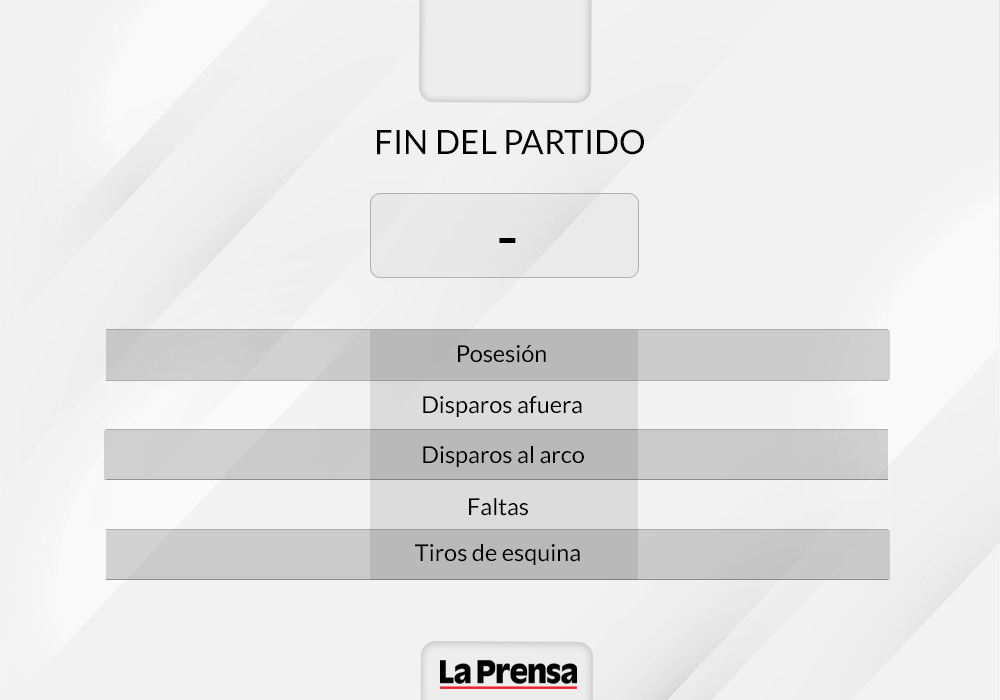
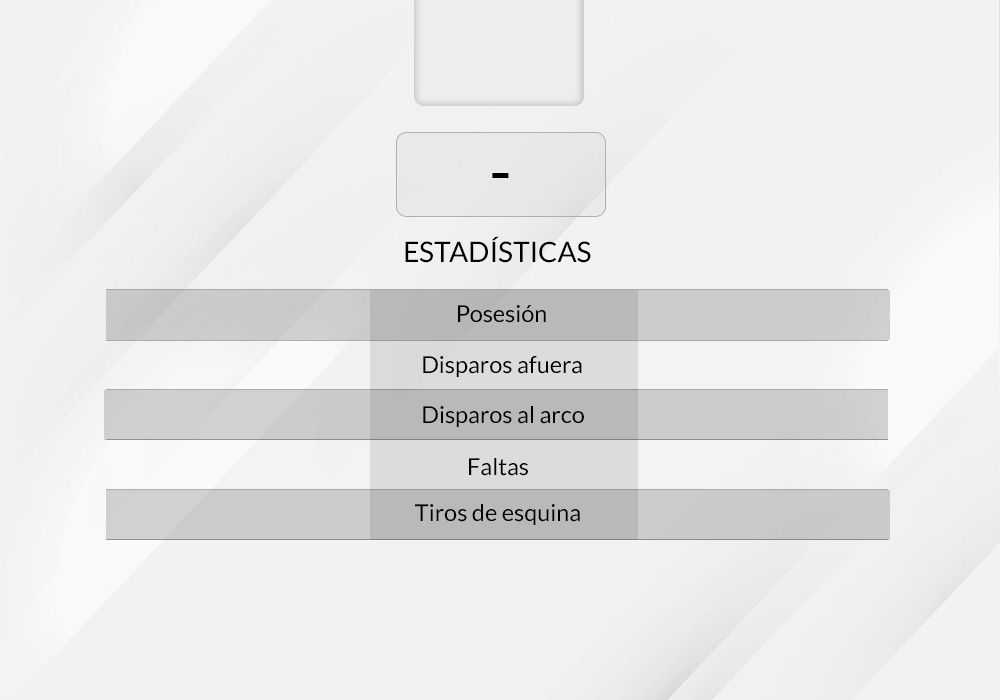
fix image details

diff --git a/textImage.py b/textImage.py
@@ -22,7 +22,7 @@ import numpy as np
 # ESCRIBE Y HACE WRAP DE LOS NOMBRES DE LOS EQUPOS DADO UN TEXTO Y COORDENADAS
 def writeTeam (text,sizex,sizey):
 
-    text_img = np.ones((40, 200))
+
     font = cv2.FONT_HERSHEY_SIMPLEX
 
     wrapped_text = textwrap.wrap(text, width=15)
@@ -70,7 +70,7 @@ def calcularCentro(cadena, pos):
 ################# EQUIPO IZQUIERDA ################# 
 logoIzq = 'https://cdn.api.everysport.com/logos/fotboll/olimpia_190518/1641998342298.png'
 
-nameTeamIzq = ("equipo de nombre largo").upper()
+nameTeamIzq = ("equipo pc. de nombre largo").upper()
 
 gols_one = "4"
 
@@ -88,7 +88,7 @@ equipoIzq = [
 ################# EQUIPO DERECHA ################# 
 logoDer = 'https://cdn.api.everysport.com/logos/fotboll/atletico_club_goianense_158404/1654764046179.png'
 
-nameTeamDer = ("Atletico Club Goianense").upper()
+nameTeamDer = ("nombre corto").upper()
 
 gols_two = "2"
 
@@ -154,13 +154,13 @@ img1_copy = img1.copy()
 # MASCARA PARA TRASPARENCIA DE LOGOS
 
 # LOGO CENTRAL
-img1_copy.paste(logo3, (468,10), logo3)
+img1_copy.paste(logo3, (460,10), logo3)
 
 # LOGO IZQUIERDO ( PSG PRUEBA )
-img1_copy.paste(logo1, (145,50), logo1)
+img1_copy.paste(logo1, (145,20), logo1)
 
 #LOGO DERECHO ( BACELONA )
-img1_copy.paste(logo2, (727,50), logo2)
+img1_copy.paste(logo2, (727,20), logo2)
 
 
 # GUARDAR IMAGEN TEMPORAL CON LOGOS
@@ -172,19 +172,19 @@ img = cv2.imread('assets/img_logos.jpg')
 
 
 # ESCRIBE GOLES EQUIPO IZQUERDA
-cv2.putText(img, gols_one, (calcularCentro(gols_one, 420),258), cv2.FONT_HERSHEY_SIMPLEX, 2, (0,0,0), 2, cv2.LINE_AA, False)
+cv2.putText(img, gols_one, (calcularCentro(gols_one, 435),195), cv2.FONT_HERSHEY_SIMPLEX, 2, (0,0,0), 2, cv2.LINE_AA, False)
 
 # ESCRIBE GOLES EQUIPO DERECHA
-cv2.putText(img, gols_two,(calcularCentro(gols_two, 560),258), cv2.FONT_HERSHEY_SIMPLEX, 2, (0,0,0), 2, cv2.LINE_AA, False) 
+cv2.putText(img, gols_two,(calcularCentro(gols_two, 545),195), cv2.FONT_HERSHEY_SIMPLEX, 2, (0,0,0), 2, cv2.LINE_AA, False) 
 
 
 # LLAMADO DE FUNCIONEN QUE ESCRIBE NOMBRE DE LOS EQUIPOS
-writeTeam(nameTeamIzq,440,435)
-writeTeam(nameTeamDer,440,1550)
+writeTeam(nameTeamIzq,380,435)
+writeTeam(nameTeamDer,380,1550)
 
 # LLAMADO DE FUNCIONEN QUE ESCRIBE DATOS EN TABLE 
-writeDataTable(equipoIzq, (215,365))
-writeDataTable(equipoDer, (770,365))
+writeDataTable(equipoIzq, (215,326))
+writeDataTable(equipoDer, (770,326))
 
 
 
